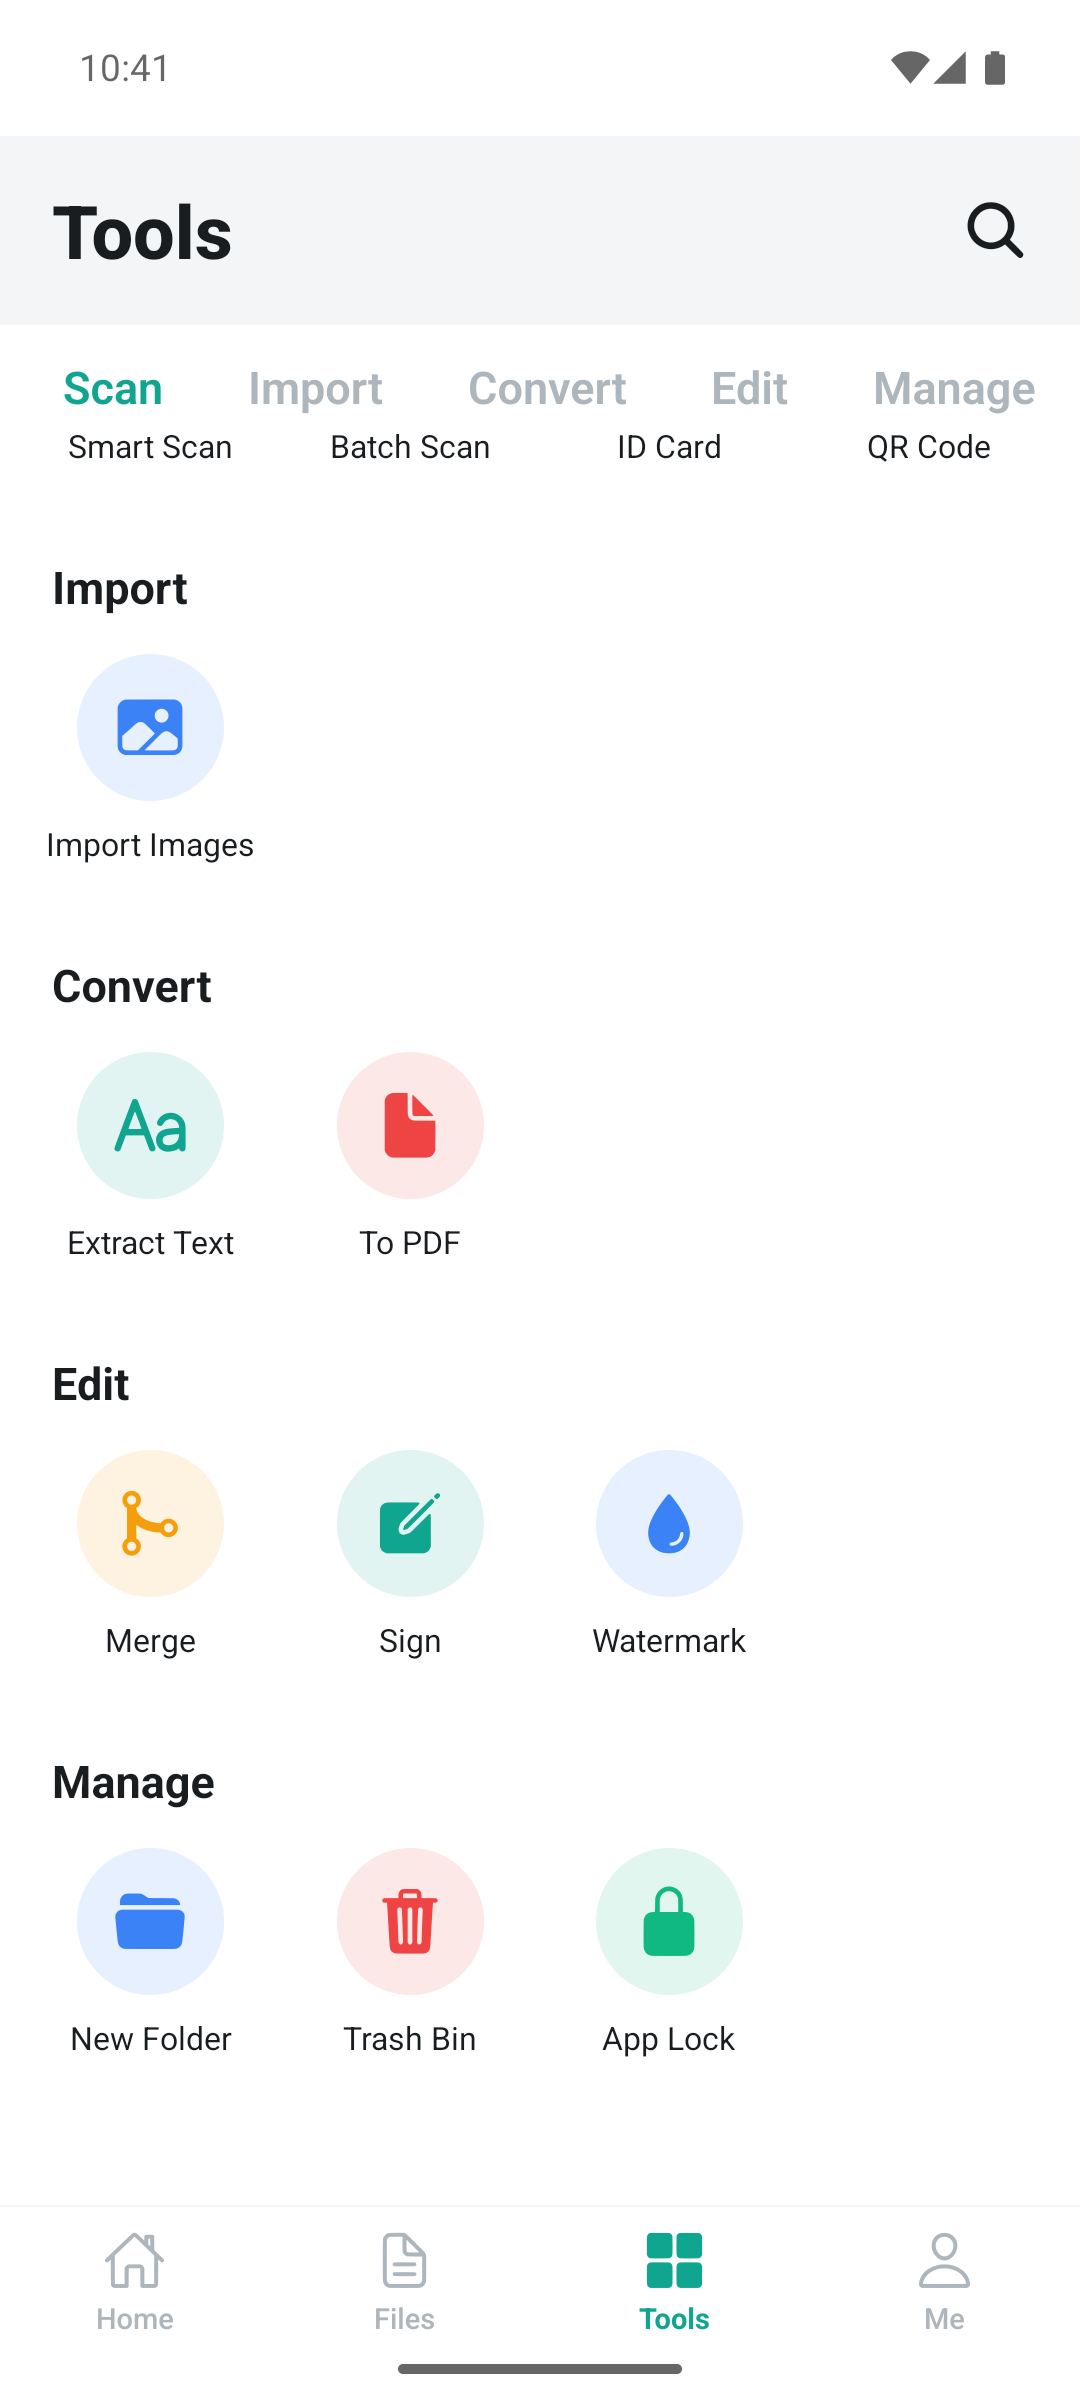
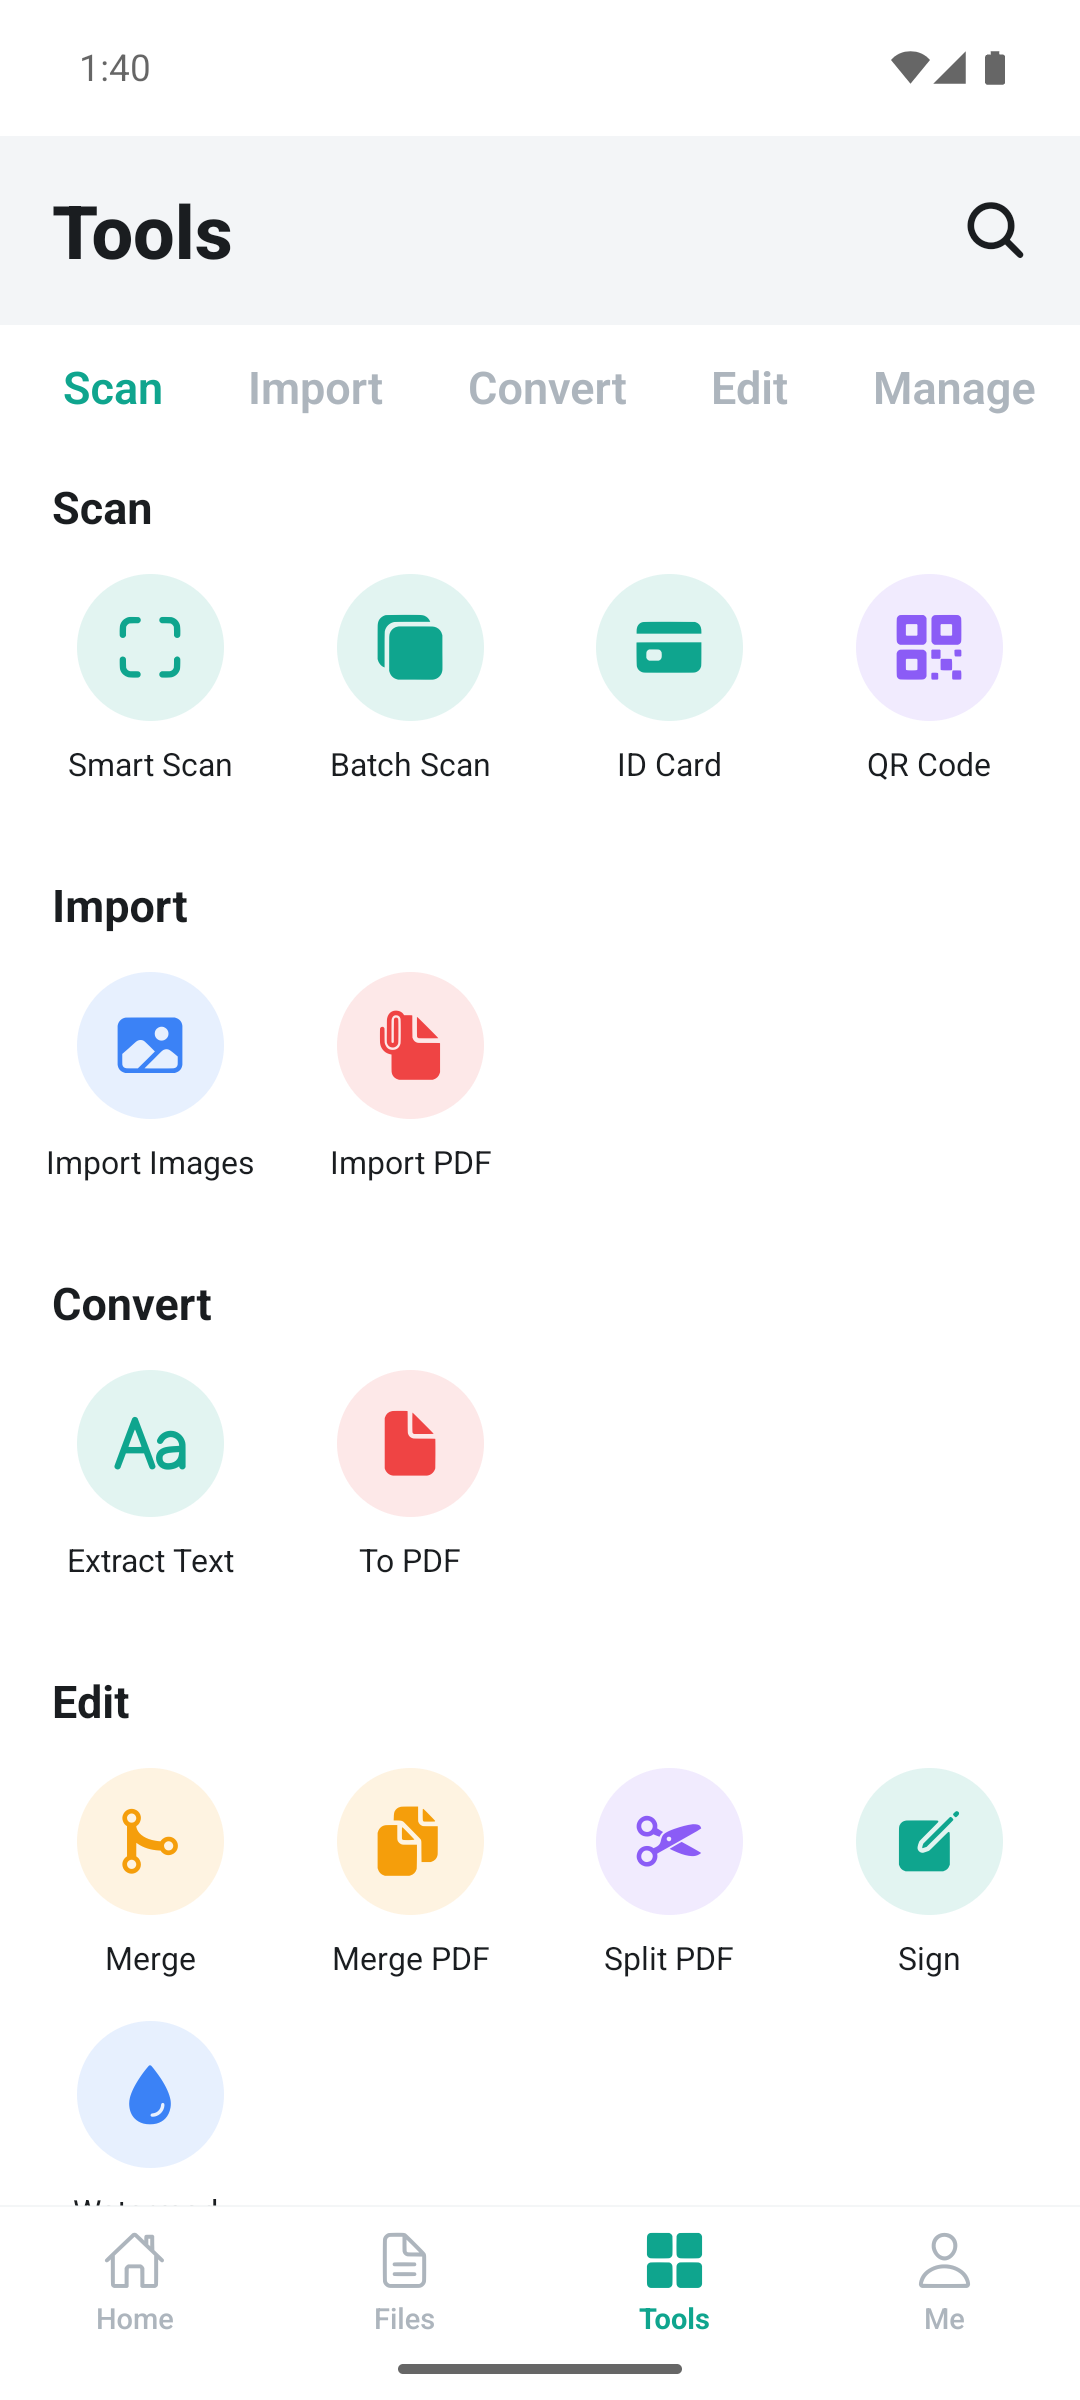
feat: add updates page and changelog for new features in Doc Scanner

diff --git a/src/lib/changelog.ts b/src/lib/changelog.ts
@@ -1,0 +1,87 @@
+export type ChangeKind = "new" | "improved" | "fixed";
+
+export type ChangeGroup = {
+  title: string;
+  items: { kind: ChangeKind; text: string }[];
+};
+
+export type Release = {
+  date: string;
+  title: string;
+  groups: ChangeGroup[];
+  planned?: string[];
+};
+
+export const releases: Release[] = [
+  {
+    date: "17 November 2026",
+    title: "New camera, real filters and PDF tools",
+    groups: [
+      {
+        title: "Camera",
+        items: [
+          { kind: "new", text: "A new document camera with close, flash, HD and grid controls, a 3:4 preview and a teal shutter." },
+          { kind: "new", text: "Mode tabs in the camera: Extract Text, Single, Batch, ID Card and QR Code." },
+          { kind: "new", text: "Single mode opens the editor as soon as you take the photo." },
+          { kind: "new", text: "Batch mode: shoot page after page, see the count on the thumbnail, undo the last shot, and tap the thumbnail to edit." },
+          { kind: "new", text: "Import Images and Import Files (PDF) straight from the camera." },
+          { kind: "improved", text: "The camera button on Home now opens the new camera." },
+        ],
+      },
+      {
+        title: "Filters and editor",
+        items: [
+          { kind: "new", text: "New filters: Original, Lighten, Enhance, No Shadow, B&W, Eco, Grayscale and Invert." },
+          { kind: "improved", text: "Filters now process the real pixels: shadows are reduced, paper turns white and B&W text is cleaner." },
+          { kind: "improved", text: "Each filter tile shows a live preview of the current page." },
+          { kind: "new", text: "Tap the selected filter again to adjust Contrast, Brightness and Details (0 to 100)." },
+          { kind: "improved", text: "The preview, the saved image and the PDF now look the same." },
+          { kind: "improved", text: "Redesigned editor: default name, delete icon on the page, page navigation, Compare and a scrolling toolbar." },
+          { kind: "new", text: "Add Page → Scan adds a new page from the camera inside the editor." },
+        ],
+      },
+      {
+        title: "Re-edit saved documents",
+        items: [
+          { kind: "new", text: "Edit on a saved document reopens it with its earlier filter, adjustments, rotation and crop." },
+          { kind: "new", text: "Crop starts from the full original photo and the previous corners, so you can widen a crop later." },
+          { kind: "new", text: "Edit a single page straight from the page viewer." },
+        ],
+      },
+      {
+        title: "PDF",
+        items: [
+          { kind: "new", text: "Import PDF opens the PDF's pages in the editor." },
+          { kind: "new", text: "Merge PDF joins two or more PDFs into one document." },
+          { kind: "new", text: "Split PDF saves chosen pages as a new document, and can remove them from the original." },
+          { kind: "new", text: "Import a PDF into Sign and Watermark." },
+          { kind: "new", text: "Split / extract pages from the document menu." },
+          { kind: "new", text: "Compress PDF in Share: choose Balanced or Smallest, see how much smaller it got, then share or save to Downloads." },
+        ],
+      },
+      {
+        title: "App Lock",
+        items: [
+          { kind: "improved", text: "The PIN is asked again after you leave the app for more than 3 seconds, not only after a full restart." },
+          { kind: "fixed", text: "Coming back from the camera, gallery or share sheet no longer locks the app." },
+          { kind: "fixed", text: "Fingerprint and face unlock work, with a message when none is set up on the phone." },
+          { kind: "improved", text: "Setting a PIN opens the keyboard and asks for the PIN twice." },
+          { kind: "improved", text: "Turning the lock off or changing the PIN needs the current PIN." },
+        ],
+      },
+      {
+        title: "Bug fixes",
+        items: [
+          { kind: "fixed", text: "Saving with the Lighten or No Shadow filter no longer shows a database error." },
+          { kind: "fixed", text: "Merged documents keep each page's original, uncropped photo." },
+        ],
+      },
+    ],
+    planned: [
+      "Live page-edge detection in the camera preview",
+      "AI clean-up filters (remove watermark, remove handwriting)",
+      "Opening password-protected PDFs",
+      "Compressing an outside PDF without importing it first",
+    ],
+  },
+];

diff --git a/src/app/updates/page.tsx b/src/app/updates/page.tsx
@@ -1,0 +1,96 @@
+import type { Metadata } from "next";
+import Link from "next/link";
+import { ArrowLeft, ArrowRight } from "lucide-react";
+import BrandMark from "@/components/BrandMark";
+import { releases, type ChangeKind } from "@/lib/changelog";
+import { APK_URL } from "@/lib/links";
+
+export const metadata: Metadata = {
+  title: "Updates · Doc Scanner",
+  description: "New features, improvements and bug fixes in Doc Scanner for Android.",
+};
+
+const badge: Record<ChangeKind, { label: string; cls: string }> = {
+  new: { label: "New", cls: "bg-brand-soft text-brand-dark" },
+  improved: { label: "Improved", cls: "bg-[#E6EFFE] text-[#2563EB]" },
+  fixed: { label: "Fixed", cls: "bg-[#FEF3E2] text-[#B45309]" },
+};
+
+export default function UpdatesPage() {
+  return (
+    <div className="min-h-screen bg-background">
+      <header className="sticky top-0 z-40 border-b border-black/5 bg-white/80 backdrop-blur-xl">
+        <div className="mx-auto flex max-w-4xl items-center justify-between px-4 py-4 sm:px-6">
+          <Link href="/" aria-label="Doc Scanner home">
+            <BrandMark />
+          </Link>
+          <Link
+            href="/"
+            className="inline-flex items-center gap-2 rounded-full px-3.5 py-2 text-sm font-medium text-zinc-600 hover:bg-black/[0.04] hover:text-ink"
+          >
+            <ArrowLeft className="h-4 w-4" /> Back to home
+          </Link>
+        </div>
+      </header>
+
+      <main className="mx-auto max-w-4xl px-4 py-16 sm:px-6 sm:py-24">
+        <p className="text-sm font-bold uppercase tracking-[0.18em] text-brand">Updates</p>
+        <h1 className="mt-4 text-4xl font-extrabold leading-[1.05] tracking-tight text-ink sm:text-5xl">
+          What&apos;s changed in <span className="font-serif-italic text-brand">Doc Scanner.</span>
+        </h1>
+        <p className="mt-5 max-w-2xl text-lg leading-relaxed text-zinc-600">
+          New features, improvements and bug fixes, newest first.
+        </p>
+
+        {releases.map((r) => (
+          <article key={r.date} className="mt-16 border-t border-black/10 pt-10">
+            <time className="text-sm font-semibold text-zinc-500">{r.date}</time>
+            <h2 className="mt-2 text-2xl font-bold text-ink sm:text-3xl">{r.title}</h2>
+
+            <div className="mt-8 grid gap-6">
+              {r.groups.map((g) => (
+                <section key={g.title} className="rounded-3xl border border-black/5 bg-white p-6 shadow-card sm:p-8">
+                  <h3 className="text-lg font-bold text-ink">{g.title}</h3>
+                  <ul className="mt-4 space-y-3">
+                    {g.items.map((it) => (
+                      <li key={it.text} className="flex gap-3 text-zinc-700">
+                        <span
+                          className={`mt-0.5 h-fit shrink-0 rounded-full px-2.5 py-0.5 text-xs font-bold ${badge[it.kind].cls}`}
+                        >
+                          {badge[it.kind].label}
+                        </span>
+                        <span className="leading-relaxed">{it.text}</span>
+                      </li>
+                    ))}
+                  </ul>
+                </section>
+              ))}
+
+              {r.planned && (
+                <section className="rounded-3xl border border-dashed border-black/15 p-6 sm:p-8">
+                  <h3 className="text-lg font-bold text-ink">Not in this update yet</h3>
+                  <ul className="mt-4 list-disc space-y-2 pl-5 text-zinc-600">
+                    {r.planned.map((p) => (
+                      <li key={p}>{p}</li>
+                    ))}
+                  </ul>
+                </section>
+              )}
+            </div>
+          </article>
+        ))}
+
+        <div className="mt-16 flex flex-col items-start gap-4 rounded-3xl bg-ink p-8 text-white sm:flex-row sm:items-center sm:justify-between">
+          <p className="text-lg font-semibold">Get the latest Doc Scanner for Android.</p>
+          <a
+            href={APK_URL}
+            download
+            className="group inline-flex items-center gap-3 rounded-full bg-brand px-6 py-3 font-bold text-white hover:bg-brand-dark"
+          >
+            Download APK <ArrowRight className="h-4 w-4 transition-transform group-hover:translate-x-1" />
+          </a>
+        </div>
+      </main>
+    </div>
+  );
+}

diff --git a/src/components/WhatsNew.tsx b/src/components/WhatsNew.tsx
@@ -1,0 +1,94 @@
+"use client";
+
+import React, { useRef } from "react";
+import Link from "next/link";
+import { ArrowRight, Camera, FileStack, LockKeyhole, SlidersHorizontal } from "lucide-react";
+import PhoneFrame from "./PhoneFrame";
+import { gsap, useIsoLayoutEffect, useReveal, FULL_MOTION } from "@/lib/gsap";
+
+const highlights = [
+  {
+    icon: Camera,
+    title: "A new document camera",
+    desc: "Flash, HD and grid controls, a 3:4 preview, and modes for Single, Batch, ID Card, Extract Text and QR Code. Import images or PDFs without leaving it.",
+  },
+  {
+    icon: SlidersHorizontal,
+    title: "Filters that clean the page",
+    desc: "Enhance, No Shadow, B&W, Eco and more work on the real pixels. Tap a filter again to tune contrast, brightness and detail.",
+  },
+  {
+    icon: FileStack,
+    title: "Full PDF toolkit",
+    desc: "Import, merge, split and compress PDFs. Saved documents reopen with their filter, rotation and crop, so you can edit them again.",
+  },
+  {
+    icon: LockKeyhole,
+    title: "Stronger App Lock",
+    desc: "The PIN is asked again after you leave the app, fingerprint and face unlock work, and changing the PIN needs the old one.",
+  },
+];
+
+export default function WhatsNew() {
+  const root = useRef<HTMLElement>(null);
+  useReveal(root);
+
+  useIsoLayoutEffect(() => {
+    const el = root.current;
+    if (!el) return;
+    const mm = gsap.matchMedia();
+    mm.add(FULL_MOTION, () => {
+      gsap.fromTo(
+        "[data-new-phone]",
+        { y: 80, rotate: -4 },
+        { y: -30, rotate: 0, ease: "none", scrollTrigger: { trigger: el, start: "top bottom", end: "bottom top", scrub: true } },
+      );
+    });
+    return () => mm.revert();
+  }, []);
+
+  return (
+    <section id="new" ref={root} className="overflow-hidden bg-ink py-24 text-white sm:py-32">
+      <div className="mx-auto grid max-w-6xl items-center gap-16 px-4 sm:px-6 lg:grid-cols-[1fr_auto]">
+        <div>
+          <p data-reveal className="text-sm font-bold uppercase tracking-[0.18em] text-brand">
+            What&apos;s new
+          </p>
+          <h2 data-reveal className="mt-4 text-4xl font-extrabold leading-[1.05] tracking-tight sm:text-5xl">
+            A faster camera and <span className="font-serif-italic text-brand">cleaner pages.</span>
+          </h2>
+          <div className="mt-12 grid gap-4 sm:grid-cols-2">
+            {highlights.map(({ icon: Icon, title, desc }) => (
+              <div key={title} data-reveal className="rounded-3xl border border-white/10 bg-white/[0.04] p-6">
+                <span className="flex h-11 w-11 items-center justify-center rounded-2xl bg-brand/15 text-brand">
+                  <Icon className="h-5 w-5" />
+                </span>
+                <h3 className="mt-4 text-lg font-bold">{title}</h3>
+                <p className="mt-2 text-sm leading-relaxed text-white/65">{desc}</p>
+              </div>
+            ))}
+          </div>
+          <Link
+            data-reveal
+            href="/updates"
+            className="group mt-10 inline-flex items-center gap-2 rounded-full bg-white px-6 py-3 font-bold text-ink transition-colors hover:bg-brand-soft"
+          >
+            See every update
+            <ArrowRight className="h-4 w-4 transition-transform group-hover:translate-x-1" />
+          </Link>
+        </div>
+        <div className="flex justify-center">
+          <div data-new-phone>
+            <PhoneFrame
+              src="/screens/camera.png"
+              alt="Doc Scanner camera with Single, Batch, ID Card and Extract Text modes"
+              className="w-[260px] sm:w-[290px]"
+              sizes="290px"
+              onDark
+            />
+          </div>
+        </div>
+      </div>
+    </section>
+  );
+}

diff --git a/src/components/ToolsGrid.tsx b/src/components/ToolsGrid.tsx
@@ -12,7 +12,11 @@ import {
   PenLine,
   QrCode,
   ScanLine,
+  Scissors,
   Search,
+  SlidersHorizontal,
+  FileUp,
+  FileArchive,
   Type,
 } from "lucide-react";
 import { gsap, useIsoLayoutEffect, useReveal, FULL_MOTION } from "@/lib/gsap";
@@ -22,9 +26,13 @@ const tools = [
   { icon: QrCode, name: "QR Code", desc: "Read QR codes with the camera.", tint: "bg-[#EEE9FE] text-[#7C5CF5]" },
   { icon: Images, name: "Import Images", desc: "Turn gallery photos into scans.", tint: "bg-[#E6EFFE] text-[#3B82F6]" },
   { icon: FileText, name: "To PDF", desc: "Export clean, shareable PDFs.", tint: "bg-[#FDE8E8] text-[#EF4444]" },
-  { icon: GitMerge, name: "Merge", desc: "Combine documents into one file.", tint: "bg-[#FEF3E2] text-[#F59E0B]" },
+  { icon: GitMerge, name: "Merge PDF", desc: "Join two or more PDFs into one document.", tint: "bg-[#FEF3E2] text-[#F59E0B]" },
   { icon: PenLine, name: "Sign", desc: "Add your signature to any page.", tint: "bg-[#E3F5F1] text-[#0FA58E]" },
   { icon: Droplet, name: "Watermark", desc: "Stamp your own text on pages.", tint: "bg-[#E6EFFE] text-[#3B82F6]" },
+  { icon: FileUp, name: "Import PDF", desc: "Open a PDF's pages in the editor.", tint: "bg-[#FDE8E8] text-[#EF4444]" },
+  { icon: Scissors, name: "Split PDF", desc: "Pick pages and save them as a new document.", tint: "bg-[#EEE9FE] text-[#7C5CF5]" },
+  { icon: FileArchive, name: "Compress PDF", desc: "Shrink a PDF before you share it.", tint: "bg-[#FEF3E2] text-[#F59E0B]" },
+  { icon: SlidersHorizontal, name: "Filters", desc: "Enhance, No Shadow, B&W and more.", tint: "bg-[#E3F5F1] text-[#0FA58E]" },
   { icon: Search, name: "Search", desc: "Find scans by title or text.", tint: "bg-[#EEE9FE] text-[#7C5CF5]" },
 ];
 

diff --git a/src/app/page.tsx b/src/app/page.tsx
@@ -2,6 +2,7 @@ import Navbar from "@/components/Navbar";
 import Hero from "@/components/Hero";
 import ToolMarquee from "@/components/ToolMarquee";
 import ScanFlow from "@/components/ScanFlow";
+import WhatsNew from "@/components/WhatsNew";
 import ToolsGrid from "@/components/ToolsGrid";
 import Privacy from "@/components/Privacy";
 import ScreensGallery from "@/components/ScreensGallery";
@@ -19,6 +20,7 @@ export default function Home() {
         <Hero />
         <ToolMarquee />
         <ScanFlow />
+        <WhatsNew />
         <ToolsGrid />
         <Privacy />
         <ScreensGallery />

diff --git a/src/components/Navbar.tsx b/src/components/Navbar.tsx
@@ -9,7 +9,8 @@ const links = [
   { href: "#tools", label: "Tools" },
   { href: "#privacy", label: "Privacy" },
   { href: "#screens", label: "Screens" },
-  { href: "#faq", label: "FAQ" },
+  { href: "#new", label: "What's new" },
+  { href: "/updates", label: "Updates" },
 ];
 
 export default function Navbar() {

diff --git a/src/components/Footer.tsx b/src/components/Footer.tsx
@@ -8,6 +8,7 @@ const columns = [
       { href: "#how", label: "How it works" },
       { href: "#tools", label: "Tools" },
       { href: "#screens", label: "Screens" },
+      { href: "/updates", label: "Updates" },
     ],
   },
   {
